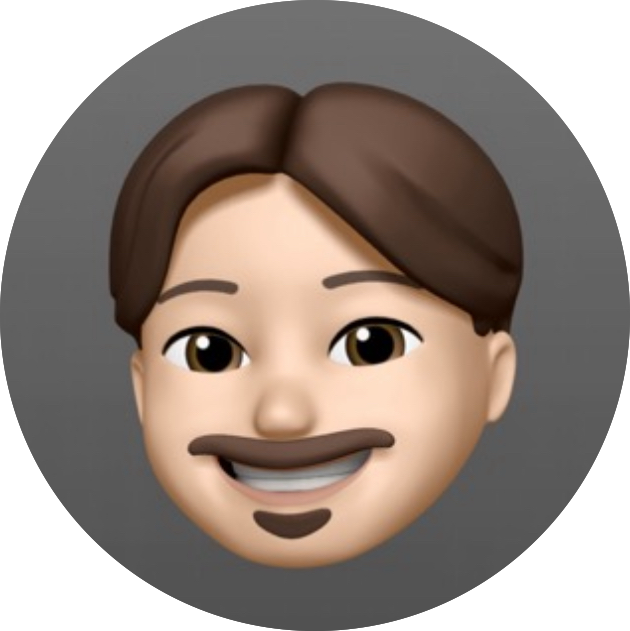
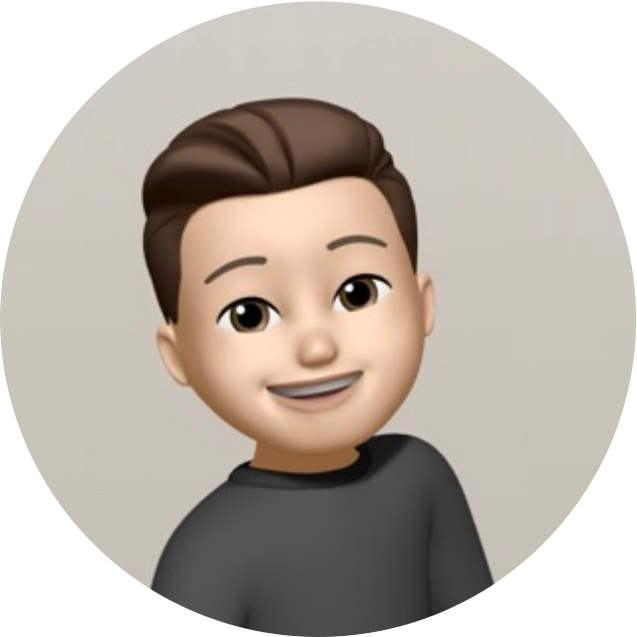
fix: updated home page to new profile picture and also added new experiences

diff --git a/src/pages/Experience.js b/src/pages/Experience.js
@@ -1,8 +1,5 @@
 import React from "react";
-import {
-  VerticalTimeline,
-  VerticalTimelineElement,
-} from "react-vertical-timeline-component";
+import { VerticalTimeline, VerticalTimelineElement } from "react-vertical-timeline-component";
 import "react-vertical-timeline-component/style.min.css";
 import SchoolIcon from "@mui/icons-material/School";
 import WorkIcon from "@mui/icons-material/Work";
@@ -14,16 +11,59 @@ function Experience() {
       <VerticalTimeline lineColor="#000000">
         <VerticalTimelineElement
           className="vertical-timeline-element--work"
-          date="2023 - present"
+          date="Jul 2024 - Present"
+          iconStyle={{ background: "#000000", color: "#f0f0f0" }}
+          icon={<WorkIcon />}>
+          <h3 className="vertical-timeline-element-title">Software Engineering Team Lead</h3>
+          <h4 className="vertical-timeline-element-subtitle">
+            <a href="https://www.infotale.com" target="_blank" rel="noopener noreferrer">
+              Infotale
+            </a>
+          </h4>
+        </VerticalTimelineElement>
+
+        <VerticalTimelineElement
+          className="vertical-timeline-element--work"
+          date="Mar 2024 - Jul 2024"
+          iconStyle={{ background: "#000000", color: "#f0f0f0" }}
+          icon={<WorkIcon />}>
+          <h3 className="vertical-timeline-element-title">Software Engineer</h3>
+          <h4 className="vertical-timeline-element-subtitle">
+            <a href="https://www.infotale.com" target="_blank" rel="noopener noreferrer">
+              Infotale
+            </a>
+          </h4>
+        </VerticalTimelineElement>
+
+        <VerticalTimelineElement
+          className="vertical-timeline-element--work"
+          date="2023 - 2024"
           iconStyle={{ background: "#000000", color: "#f0f0f0" }}
           icon={<PersonOutlineIcon />}>
           <h3 className="vertical-timeline-element-title">iOS Developer</h3>
           <h4 className="vertical-timeline-element-subtitle">Self Employed</h4>
           <p>
-            Developed TagAuto - a user-friendly iOS app designed for vehicle
-            parking location sharing within user groups. Easily locate and share
-            your parked vehicles on a map, simplifying the process of vehicle
-            sharing.
+            Developed{" "}
+            <a
+              href="https://apps.apple.com/il/app/tagauto/id6470132798"
+              target="_blank"
+              rel="noopener noreferrer">
+              TagAuto
+            </a>{" "}
+            - an app designed for vehicle parking location sharing within user groups. Easily locate
+            and share your parked vehicles on a map, simplifying the process of vehicle sharing.
+          </p>
+
+          <p>
+            Developed{" "}
+            <a
+              href="https://apps.apple.com/il/app/breathpause/id6478462845"
+              target="_blank"
+              rel="noopener noreferrer">
+              BreathPause
+            </a>{" "}
+            - a simple guided breathing exercises app, designed to reduce stress, improve focus, and
+            enhance overall well-being.
           </p>
         </VerticalTimelineElement>
 
@@ -32,14 +72,11 @@ function Experience() {
           date="2021 - 2023"
           iconStyle={{ background: "#000000", color: "#f0f0f0" }}
           icon={<WorkIcon />}>
-          <h3 className="vertical-timeline-element-title">
-            Senior Full Stack Developer
-          </h3>
+          <h3 className="vertical-timeline-element-title">Senior Full Stack Developer</h3>
           <h4 className="vertical-timeline-element-subtitle">IDF, Israel</h4>
           <p>
-            Designed and developed responsive web applications for mobile
-            utilizing the PEAN Stack (PostgreSQL, Express, Angular, Node.js),
-            incorporating RESTful API integration.
+            Designed and developed responsive web applications for mobile utilizing the PEAN Stack
+            (PostgreSQL, Express, Angular, Node.js), incorporating RESTful API integration.
           </p>
         </VerticalTimelineElement>
 
@@ -49,8 +86,7 @@ function Experience() {
           iconStyle={{ background: "#f0f0f0", color: "#000000" }}
           icon={<SchoolIcon />}>
           <h3 className="vertical-timeline-element-title">
-            B.Sc - Computer Science with specialization in Mobile and Web
-            development
+            B.Sc - Computer Science with specialization in Mobile and Web development
           </h3>
           <h4 className="vertical-timeline-element-subtitle">
             College of Management Academic Studies
@@ -62,13 +98,11 @@ function Experience() {
           date="2017 - 2021"
           iconStyle={{ background: "#000000", color: "#f0f0f0" }}
           icon={<WorkIcon />}>
-          <h3 className="vertical-timeline-element-title">
-            Full Stack Developer
-          </h3>
+          <h3 className="vertical-timeline-element-title">Full Stack Developer</h3>
           <h4 className="vertical-timeline-element-subtitle">IDF, Israel</h4>
           <p>
-            Developed and maintained web applications using Angular and Node.js,
-            contributing to the functionality and user experience.
+            Developed and maintained web applications using Angular and Node.js, contributing to the
+            functionality and user experience.
           </p>
         </VerticalTimelineElement>
 
@@ -77,9 +111,7 @@ function Experience() {
           date="2017"
           iconStyle={{ background: "#f0f0f0", color: "#000000" }}
           icon={<SchoolIcon />}>
-          <h3 className="vertical-timeline-element-title">
-            Mamram Programming Course
-          </h3>
+          <h3 className="vertical-timeline-element-title">Mamram Programming Course</h3>
           <h4 className="vertical-timeline-element-subtitle">
             J6 & Cyber Defense Directorate, IDF
           </h4>

diff --git a/src/pages/Home.js b/src/pages/Home.js
@@ -14,14 +14,10 @@ function Home() {
     <div className="home">
       <div className="about">
         {/* Add alt attribute to img element */}
-        <img
-          src={ProfilePicture}
-          alt="Nir Neuman's Profile"
-          className="profilePicture"
-        />
-        <h2>Nir Neuman</h2>
+        <img src={ProfilePicture} alt="Nir Neuman's Profile" className="profilePicture" />
+        <h2>Nir Nils Neuman</h2>
         <div className="prompt">
-          <p>iOS Developer, Full Stack Developer</p>
+          <p>Full Stack Developer, iOS Developer</p>
           <a
             href="https://linkedin.com/in/nirneu"
             target="_blank"
@@ -45,28 +41,24 @@ function Home() {
         <h1>Skills</h1>
         <ol className="list">
           <li className="item">
-            <h2>iOS Development</h2>
+            <h2>Full Stack Development</h2>
             <span>
-              Swift, SwiftUI, UIKit, Cocoa Touch, Core Data, Combine, MVVM,
-              Xcode
+              JavaScript, TypeScript, React, Angular, Node.js, Express, PostgreSQL, MongoDB
             </span>
           </li>
           <li className="item">
-            <h2>Full Stack Development</h2>
-            <span>
-              JavaScript, TypeScript, Angular, Node.js, Express, PostgreSQL
-            </span>
+            <h2>iOS Development</h2>
+            <span>Swift, SwiftUI, UIKit, Core Data, Combine, MVVM, Xcode</span>
           </li>
           <li className="item">
             <h2>Other</h2>
             <span>
-              Object-Oriented Programming, RESTful APIs, Firebase, Azure Cloud,
-              Git, Scrum, UI/UX
+              Object-Oriented Programming, RESTful APIs, Firebase, Azure Cloud, Git, Scrum, UI/UX
             </span>
           </li>
           <li className="item">
             <h2>Languages</h2>
-            <span>English, Hebrew, Swedish</span>
+            <span>English, Hebrew, German, Swedish</span>
           </li>
         </ol>
       </div>

diff --git a/src/App.js b/src/App.js
@@ -14,8 +14,8 @@ function App() {
         <Navbar />
         <Routes>
           <Route path="/" element={<Home />} />
-          <Route path="/projects" element={<Projects />} />
-          <Route path="/project/:id" element={<ProjectDisplay />} />
+          {/* <Route path="/projects" element={<Projects />} />
+          <Route path="/project/:id" element={<ProjectDisplay />} /> */}
           <Route path="/experience" element={<Experience />} />
         </Routes>
       </Router>

diff --git a/src/components/Navbar.js b/src/components/Navbar.js
@@ -25,7 +25,7 @@ function Navbar() {
       <div className="links">
         <Link to="/"> Home </Link>
         <Link to="/experience"> Experience </Link>
-        <Link to="/projects"> Projects </Link>
+        {/* <Link to="/projects"> Projects </Link> */}
       </div>
     </div>
   );

diff --git a/src/components/Footer.js b/src/components/Footer.js
@@ -4,7 +4,7 @@ import "../styles/Footer.css";
 function Footer() {
   return (
     <div className="footer">
-      <p>&copy; 2023 nirneu.com</p>
+      <p>&copy; 2024 nirneu.com</p>
     </div>
   );
 }
